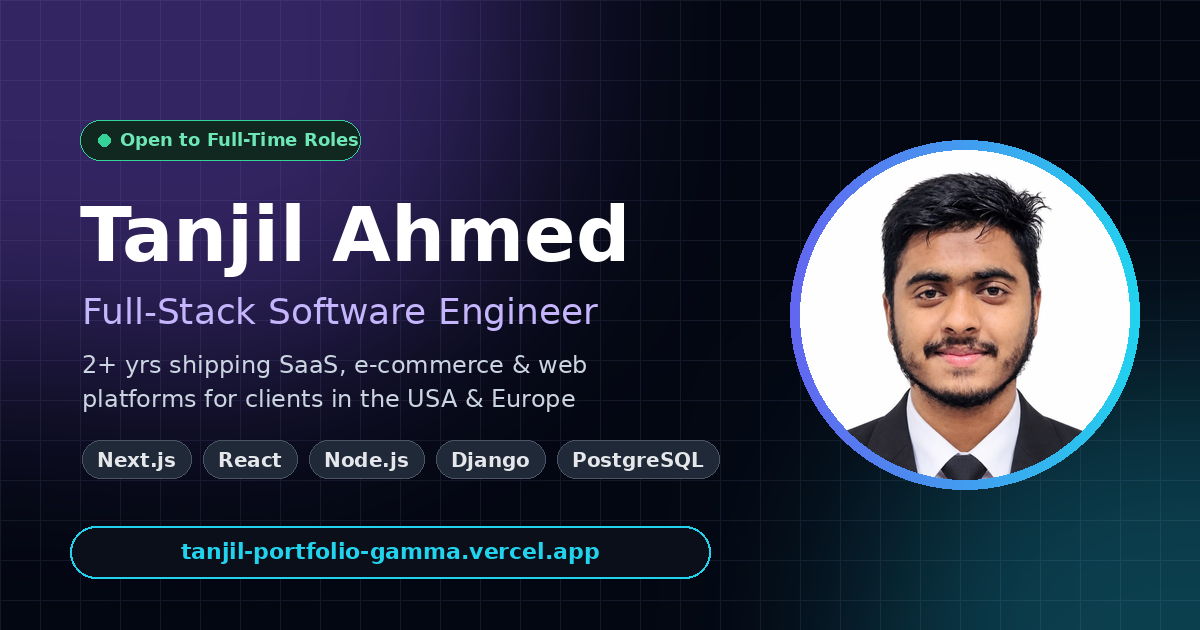
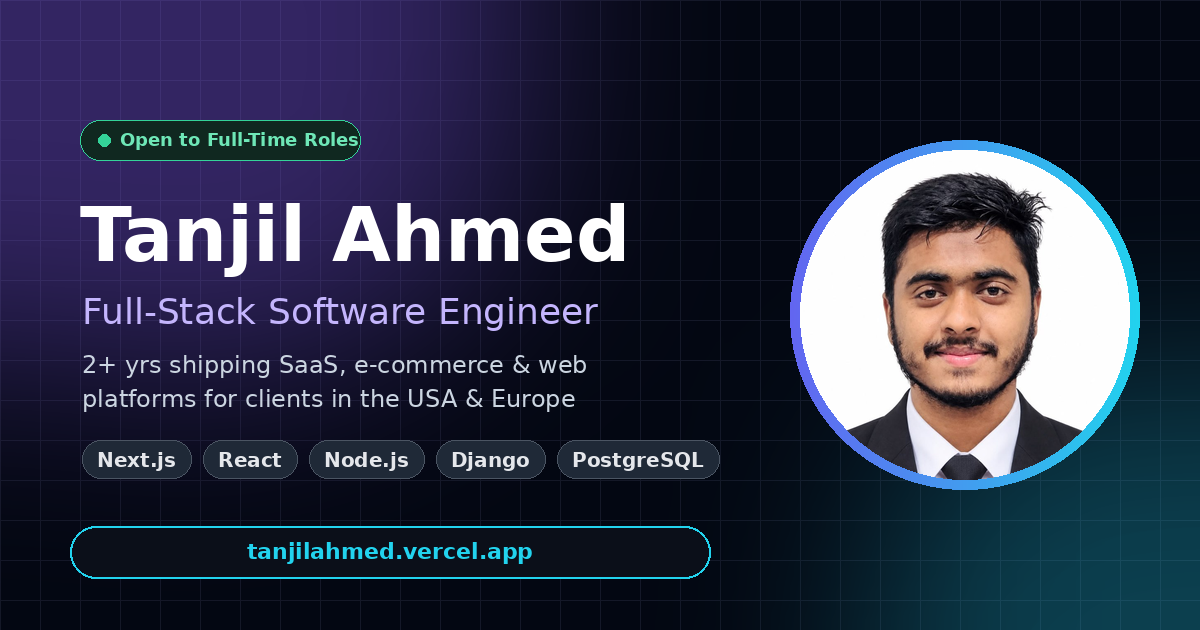
Make tanjilahmed.vercel.app the primary URL again
Claude-Session: https://claude.ai/code/session_012tNwPXDRqke7Xg8gsjsY5x

Changed region(s): [[0.1542, 0.8444, 0.4933, 0.9048]]

diff --git a/public/index.html b/public/index.html
@@ -12,7 +12,7 @@
     <meta name="keywords" content="Tanjil Ahmed, Tanjil Ahmed software engineer, Tanjil Ahmed Sylhet, Sylhet Engineering College, SUST CSE, Technext, full stack developer Bangladesh, Next.js developer, Django REST Framework developer, React developer Sylhet, ICPC, IEEE blockchain" />
     <meta name="author" content="Tanjil Ahmed" />
     <meta name="robots" content="index, follow, max-image-preview:large" />
-    <link rel="canonical" href="https://tanjil-portfolio-gamma.vercel.app/" />
+    <link rel="canonical" href="https://tanjilahmed.vercel.app/" />
     <link rel="me" href="https://github.com/tanjilahmed12345" />
     <link rel="me" href="https://www.linkedin.com/in/tanjilahmed01/" />
 
@@ -23,17 +23,17 @@
     <meta property="profile:last_name" content="Ahmed" />
     <meta property="og:title" content="Tanjil Ahmed | Full-Stack Software Engineer" />
     <meta property="og:description" content="Tanjil Ahmed — Full-Stack Software Engineer from Sylhet, Bangladesh. CSE graduate (Sylhet Engineering College, SUST) with 2 years at Technext Ltd, 2 IEEE publications and ICPC Asia Dhaka Regional qualification. Next.js, React, Node.js, Django REST Framework, PostgreSQL." />
-    <meta property="og:image" content="https://tanjil-portfolio-gamma.vercel.app/og-image.png" />
+    <meta property="og:image" content="https://tanjilahmed.vercel.app/og-image.png" />
     <meta property="og:image:width" content="1200" />
     <meta property="og:image:height" content="630" />
     <meta property="og:image:alt" content="Tanjil Ahmed — Full-Stack Software Engineer" />
-    <meta property="og:url" content="https://tanjil-portfolio-gamma.vercel.app/" />
+    <meta property="og:url" content="https://tanjilahmed.vercel.app/" />
 
     <!-- Twitter / X -->
     <meta name="twitter:card" content="summary_large_image" />
     <meta name="twitter:title" content="Tanjil Ahmed | Full-Stack Software Engineer" />
     <meta name="twitter:description" content="Tanjil Ahmed — Full-Stack Software Engineer from Sylhet, Bangladesh. CSE graduate (Sylhet Engineering College, SUST) with 2 years at Technext Ltd, 2 IEEE publications and ICPC Asia Dhaka Regional qualification. Next.js, React, Node.js, Django REST Framework, PostgreSQL." />
-    <meta name="twitter:image" content="https://tanjil-portfolio-gamma.vercel.app/og-image.png" />
+    <meta name="twitter:image" content="https://tanjilahmed.vercel.app/og-image.png" />
 
     <!-- Structured data -->
     <script type="application/ld+json">
@@ -41,8 +41,8 @@
   "@context": "https://schema.org",
   "@type": "Person",
   "name": "Tanjil Ahmed",
-  "url": "https://tanjil-portfolio-gamma.vercel.app/",
-  "image": "https://tanjil-portfolio-gamma.vercel.app/images/myPhoto.jpg",
+  "url": "https://tanjilahmed.vercel.app/",
+  "image": "https://tanjilahmed.vercel.app/images/myPhoto.jpg",
   "email": "ahmedtanjil12345@gmail.com",
   "jobTitle": "Software Engineer",
   "alumniOf": {

diff --git a/README.md b/README.md
@@ -40,7 +40,7 @@ mail app pre-addressed to you.
 
 ## Deployment (Vercel)
 
-Live at **https://tanjil-portfolio-gamma.vercel.app** — the Vercel project is linked to this
+Live at **https://tanjilahmed.vercel.app** — the Vercel project is linked to this
 GitHub repo, so every push to `main` redeploys automatically. Nothing else to do.
 
 For the contact form keys, add the three `REACT_APP_EMAILJS_*` variables in
